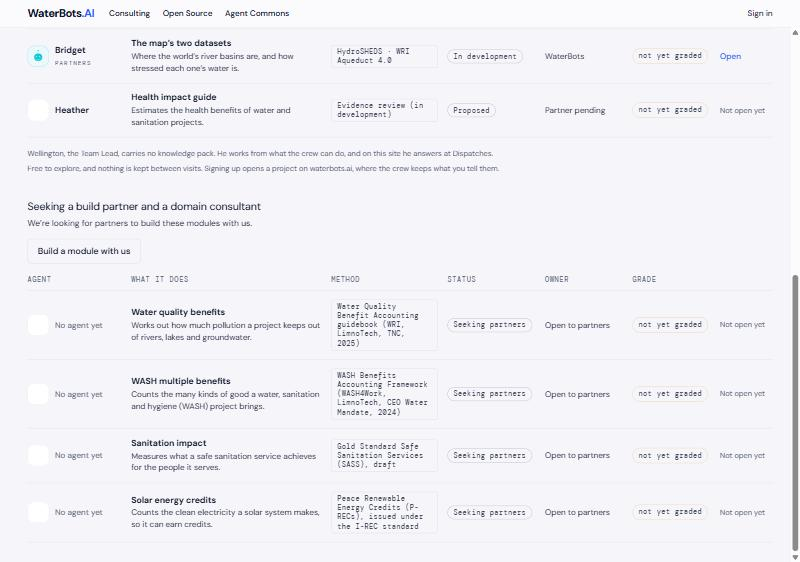
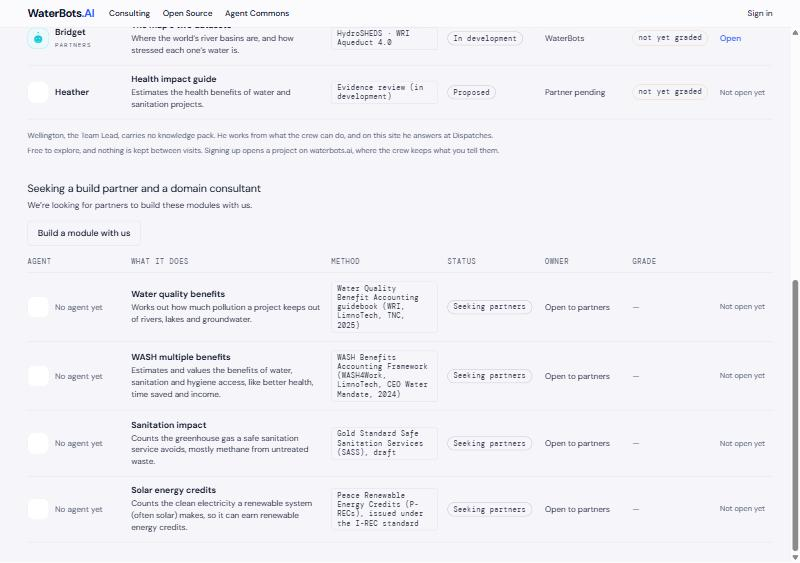
Fixed: three Commons lines in Amy's words, a dash for the seeking grades, Phoebe in Beta
Sanitation, WASH and solar take the lines she wrote. The four modules
seeking partners show a dash in the grade column. Phoebe's module reads
"Beta". The captures are retaken; two now cover the whole page.

diff --git a/src/lib/commonsShelf.ts b/src/lib/commonsShelf.ts
@@ -40,7 +40,8 @@ import { CRITERIA } from './phoebeCards';
  * A MODULE'S STATUS AND OWNER — maintainer's rulings, 28 Oct 2026. The owner
  * is never a partner's name, until a partner owns a module and she says so.
  *
- * THE MODULES READ "In development", the two carbon modules "In development ·
+ * PHOEBE'S MODULE READS "Beta" (her word, 28 Oct 2026); THE OTHERS READ
+ * "In development", the two carbon modules "In development ·
  * partner review", the health guide "Proposed", and the modules seeking
  * partners say so. "Shared module" says the same agent and calculator run here
  * and on waterbots.ai, and nothing in this repository shows that yet: the open
@@ -49,6 +50,7 @@ import { CRITERIA } from './phoebeCards';
  */
 export type ModuleStatus =
   | 'Shared module'
+  | 'Beta'
   | 'In development'
   | 'In development · partner review'
   | 'Proposed'
@@ -109,7 +111,7 @@ const PHOEBE_CARD: ShelfCard = {
     'case stronger.',
   /* "VWBA 2.0" — read from the first card's citation, as her pack tab reads it. */
   tag: CRITERIA[0].citation.document,
-  status: 'In development',
+  status: 'Beta',
   owner: 'WaterBots',
   grade: null,
 };
@@ -162,8 +164,9 @@ export const PLANNED: PlannedModule[] = [
 /**
  * Modules seeking a build partner and a domain consultant — the maintainer's
  * ruling of 28 Oct 2026. No agent yet. The method is the document each would
- * be built from, as she named it; the line on what each does is plain words,
- * the engineer's draft for her eye.
+ * be built from, as she named it; the line on what each does is plain words —
+ * the engineer's draft for water quality, hers for the other three, 28 Oct 2026.
+ * Their grade shows a dash, not "not yet graded": nothing exists to grade.
  */
 export const SEEKING: PlannedModule[] = [
   {
@@ -180,7 +183,9 @@ export const SEEKING: PlannedModule[] = [
     key: 'wash-multiple-benefits',
     agent: null,
     title: 'WASH multiple benefits',
-    line: 'Counts the many kinds of good a water, sanitation and hygiene (WASH) project brings.',
+    line:
+      'Estimates and values the benefits of water, sanitation and hygiene access, like better ' +
+      'health, time saved and income.',
     method: 'WASH Benefits Accounting Framework (WASH4Work, LimnoTech, CEO Water Mandate, 2024)',
     status: 'Seeking partners',
     owner: 'Open to partners',
@@ -190,7 +195,9 @@ export const SEEKING: PlannedModule[] = [
     key: 'sanitation-impact',
     agent: null,
     title: 'Sanitation impact',
-    line: 'Measures what a safe sanitation service achieves for the people it serves.',
+    line:
+      'Counts the greenhouse gas a safe sanitation service avoids, mostly methane from untreated ' +
+      'waste.',
     method: 'Gold Standard Safe Sanitation Services (SASS), draft',
     status: 'Seeking partners',
     owner: 'Open to partners',
@@ -200,7 +207,9 @@ export const SEEKING: PlannedModule[] = [
     key: 'solar-energy-credits',
     agent: null,
     title: 'Solar energy credits',
-    line: 'Counts the clean electricity a solar system makes, so it can earn credits.',
+    line:
+      'Counts the clean electricity a renewable system (often solar) makes, so it can earn ' +
+      'renewable energy credits.',
     method: 'Peace Renewable Energy Credits (P-RECs), issued under the I-REC standard',
     status: 'Seeking partners',
     owner: 'Open to partners',

diff --git a/src/components/CommonsShelf.tsx b/src/components/CommonsShelf.tsx
@@ -138,7 +138,7 @@ export default function CommonsShelf({ onOpen }: { onOpen: (card: ShelfCard) => 
           <ModuleHead />
           <ul className="wb-module-list">
             {SEEKING.map((planned) => (
-              <PlannedRow key={planned.key} planned={planned} />
+              <PlannedRow key={planned.key} planned={planned} seeking />
             ))}
           </ul>
         </section>
@@ -213,7 +213,7 @@ function ModuleHead() {
 
 /* A module with nothing to open: a named agent shows its name with an empty
    square, as no portrait exists for it; with none, the row says so. */
-function PlannedRow({ planned }: { planned: PlannedModule }) {
+function PlannedRow({ planned, seeking = false }: { planned: PlannedModule; seeking?: boolean }) {
   return (
     <li className="wb-module-row" aria-label={planned.title}>
       <div style={{ display: 'flex', alignItems: 'center', gap: 10, minWidth: 0 }}>
@@ -239,7 +239,8 @@ function PlannedRow({ planned }: { planned: PlannedModule }) {
       </Cell>
       <Cell label="Owner">{planned.owner}</Cell>
       <Cell label="Grade">
-        <Grade />
+        {/* A module seeking partners has nothing to grade yet: a dash, her word of 28 Oct 2026. */}
+        {seeking ? <span style={{ color: 'var(--ink-3)' }}>—</span> : <Grade />}
       </Cell>
       <div style={{ fontSize: 12, color: 'var(--ink-3)', whiteSpace: 'nowrap' }}>Not open yet</div>
     </li>

diff --git a/BUILD_PLAN.md b/BUILD_PLAN.md
@@ -191,7 +191,7 @@ him; it reads "not yet graded" until a real card exists. Slice 5, the flag butto
 real only, and an agent opens alone: canon in CLAUDE.md. **28 Oct 2026:** the site moves to open.waterbots.ai,
 every page takes the main site's menu, and the Commons is rewritten as a list of modules, her words. The
 same day, a second word: the page is centred under the menu and the sign-up bar is gone; the carbon packs
-read "In development · partner review", the health guide is Heather's and "Proposed"; and four modules
+read "In development · partner review", the health guide is Heather's and "Proposed", Phoebe's reads "Beta"; and four modules
 seeking a build partner and a domain consultant are listed below, with the button that asks a partner in.
 
 **S19 · The Workshop — make your own agent on the Commons.** After v1 · PARTNER. Not built; the proposal
